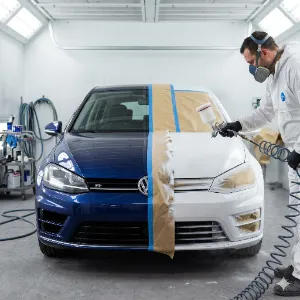
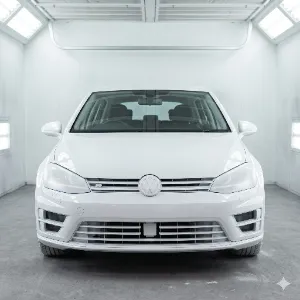
feat: ajuste da imagem comparativa em projetos

diff --git a/index.html b/index.html
@@ -191,10 +191,10 @@
             <h2 class="bem-titulo-h2">Nossos Projetos</h2>
                 <div class="img-comp-container">
                 <div class="img-comp-img">
-                    <img src="img_snow.jpg" width="300" height="200">
+                    <img src="assets/imagens/imagem-projetos/pintura-1.webp" width="300" height="200">
                 </div>
                 <div class="img-comp-img img-comp-overlay">
-                    <img src="img_forest.jpg" width="300" height="200">
+                    <img src="assets/imagens/imagem-projetos/pintura-2.webp" width="300" height="200">
                 </div>
                 </div>
         </section>

diff --git a/assets/css/microframework.css b/assets/css/microframework.css
@@ -104,6 +104,7 @@ header{
 }
 #sobre{
   position: relative;
+  height: 300px;
 }
 .sobre-img{
   position: absolute;
